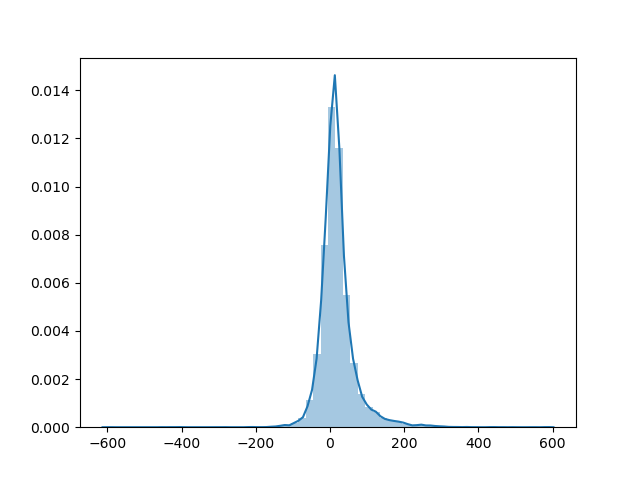
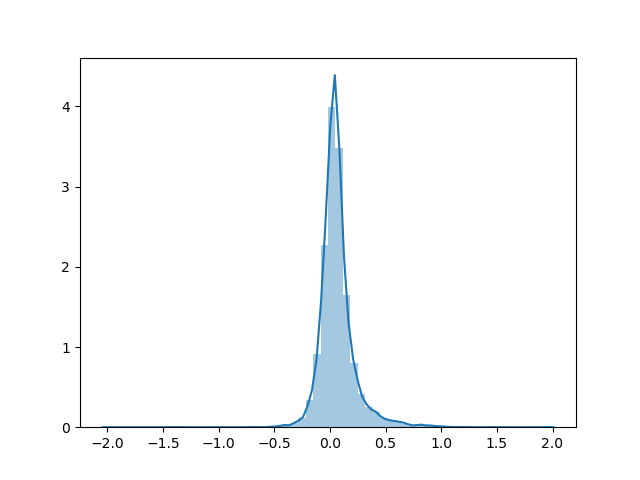
sasa feature added

diff --git a/dataloader.py b/dataloader.py
@@ -159,10 +159,14 @@ def read_pocket(mol_path, profile_path, pop_path, hydrophobicity, binding_probab
         atoms['distance_to_center'] = center_distances
     
     siteresidue_list = atoms['subst_name'].tolist()
-    #qsasa_data = extract_sasa_data(siteresidue_list, pop_path)
-    #atoms['sasa'] = qsasa_data
-    seq_entropy_data = extract_seq_entropy_data(siteresidue_list, profile_path) # sequence entropy data with subst_name as keys
-    atoms['sequence_entropy'] = atoms['subst_name'].apply(lambda x: seq_entropy_data[x])
+    
+    if 'sasa' in features_to_use:
+        qsasa_data = extract_sasa_data(siteresidue_list, pop_path)
+        atoms['sasa'] = qsasa_data
+    
+    if 'sequence_entropy' in features_to_use:
+        seq_entropy_data = extract_seq_entropy_data(siteresidue_list, profile_path) # sequence entropy data with subst_name as keys
+        atoms['sequence_entropy'] = atoms['subst_name'].apply(lambda x: seq_entropy_data[x])
     
     if atoms.isnull().values.any():
         print('invalid input data (containing nan):')
@@ -384,7 +388,7 @@ def divide_and_gen_pairs(cluster_file_dir, subcluster_dict, num_classes, cluster
         th: threshold of maximum number of pockets in one class.
     """
     # read the original clustered pockets
-    clusters = read_cluster_file(cluster_file_dir)
+    clusters = read_cluster_file_from_yaml(cluster_file_dir)
 
     # select clusters according to rank of sizes and sample large clusters
     clusters = select_classes(clusters, num_classes, cluster_th)
@@ -411,8 +415,7 @@ def divide_and_gen_pairs(cluster_file_dir, subcluster_dict, num_classes, cluster
 
 
 def read_cluster_file(cluster_file_dir):
-    """
-    Read the clustered pockets as a list of lists.
+    """Read the clustered pockets as a list of lists.
     """
     f = open(cluster_file_dir, 'r')
     data_text = f.read()
@@ -432,6 +435,14 @@ def read_cluster_file(cluster_file_dir):
 
     return clusters
     #return clusters[1:] # !!!!!! testing performance without first large cluster.
+
+
+def read_cluster_file_from_yaml(cluster_file_dir):
+    """Read the clustered pockets as a list of lists.
+    """
+    with open(cluster_file_dir) as file:
+        clusters = yaml.full_load(file)    
+    return clusters
 
 
 def select_classes(clusters, num_classes, th):

diff --git a/visualize_embeddings.py b/visualize_embeddings.py
@@ -6,7 +6,7 @@ import argparse
 import os
 import torch
 import numpy as np
-from dataloader import read_cluster_file, select_classes, divide_clusters, pocket_loader_gen, cluster_by_chem_react
+from dataloader import read_cluster_file_from_yaml, select_classes, divide_clusters, pocket_loader_gen, cluster_by_chem_react
 from compute_acc import compute_embeddings
 from model import SiameseNet
 import yaml
@@ -26,7 +26,7 @@ def get_args():
                         help='text file to get the cluster labels')                        
 
     parser.add_argument('-cluster_file_dir',
-                        default='../data/googlenet-classes',
+                        default='../data/clusters_after_remove_files_with_no_popsa.yaml',
                         required=False,
                         help='text file to get the cluster labels')
 
@@ -73,7 +73,7 @@ def gen_embedding(cluster_file_dir, pocket_dir, pop_dir, trained_model_dir, subc
     normalize = True
     
     # read the original clustered pockets
-    clusters = read_cluster_file(cluster_file_dir)
+    clusters = read_cluster_file_from_yaml(cluster_file_dir)
 
     # select clusters according to rank of sizes and sample large clusters
     clusters = select_classes(clusters, num_classes, cluster_th)
@@ -194,7 +194,7 @@ if __name__=="__main__":
         labels = labels.astype(int)
     
         # read the original clustered pockets
-        clusters = read_cluster_file(cluster_file_dir)
+        clusters = read_cluster_file_from_yaml(cluster_file_dir)
     
         # select clusters according to rank of sizes and sample large clusters
         clusters = select_classes(clusters, num_classes, cluster_th)

diff --git a/find_missing_popsa.py b/find_missing_popsa.py
@@ -1,0 +1,45 @@
+"""
+Find the missing popsa files. Then we manually remove them from train/val/test.
+"""
+from dataloader import read_cluster_file
+from os import listdir
+from os.path import isfile, join
+import yaml
+
+
+def protein_list_by_popsa(pop_dir):
+    """returns a list of protein codes in the popsa folder
+    """
+    protein_list = [f for f in listdir(pop_dir) if isfile(join(pop_dir, f))]
+    protein_list = [x[0:-5] for x in protein_list]
+    return protein_list
+
+if __name__=="__main__":
+    cluster_file_dir = '../data/googlenet-classes'
+    pop_dir = '../data/pops-googlenet/'    
+    output_file = '../data/clusters_after_remove_files_with_no_popsa.yaml'
+
+    clusters = read_cluster_file(cluster_file_dir)
+
+    protein_list = protein_list_by_popsa(pop_dir)
+
+    num_pockets = sum([len(x) for x in clusters])
+    print('number of pockets in original clusters: ', num_pockets)
+
+    for cluster in clusters:
+        for pocket in cluster:
+            if pocket[0:-2] not in protein_list:
+                cluster.remove(pocket)
+                print('can not find popsa file for {}'.format(pocket))
+
+    num_pockets = sum([len(x) for x in clusters])
+    print('number of pockets after removing: ', num_pockets)
+
+    print('saving new clusters to {}...'.format(output_file))
+    with open(output_file, 'w') as file:
+        documents = yaml.dump(clusters, file)
+
+    with open(output_file) as file:
+        loaded_clusters = yaml.full_load(file)   
+    print(loaded_clusters)
+

diff --git a/node_feature_distribution.py b/node_feature_distribution.py
@@ -4,14 +4,14 @@ Compute the mean and std of each feature of the entire dataset.
 import random
 import os
 import numpy as np
-from dataloader import read_cluster_file, select_classes, pocket_loader_gen
+from dataloader import read_cluster_file_from_yaml, select_classes, pocket_loader_gen
 import seaborn as sns
 import matplotlib.pyplot as plt
 
 
 if __name__ == "__main__":
     random.seed(666) # deterministic sampled pockets and pairs from dataset
-    cluster_file_dir = '../data/googlenet-classes'
+    cluster_file_dir = '../data/clusters_after_remove_files_with_no_popsa.yaml'
     pocket_dir = '../data/googlenet-dataset/'
     pop_dir = '../data/pops-googlenet/'
 
@@ -22,9 +22,9 @@ if __name__ == "__main__":
     num_classes = 60
     cluster_th = 10000 # threshold of number of pockets in a class
 
-    clusters = read_cluster_file(cluster_file_dir)
+    clusters = read_cluster_file_from_yaml(cluster_file_dir)
     clusters = select_classes(clusters, num_classes, cluster_th)
-    features_to_use = ['x', 'y', 'z', 'charge', 'hydrophobicity', 'binding_probability', 'distance_to_center', 'sequence_entropy'] 
+    features_to_use = ['x', 'y', 'z', 'charge', 'hydrophobicity', 'binding_probability', 'distance_to_center', 'sasa', 'sequence_entropy'] 
     #features_to_use = ['charge', 'hydrophobicity', 'binding_probability', 'distance_to_center', 'sequence_entropy'] 
     
     # all pockets are here

diff --git a/compute_acc.py b/compute_acc.py
@@ -9,7 +9,7 @@ import argparse
 import os
 import torch
 import numpy as np
-from dataloader import read_cluster_file, select_classes, divide_clusters, pocket_loader_gen, cluster_by_chem_react
+from dataloader import read_cluster_file_from_yaml, select_classes, divide_clusters, pocket_loader_gen, cluster_by_chem_react
 from model import SiameseNet, ContrastiveLoss
 from scipy.spatial.distance import cdist
 import sklearn.metrics as metrics
@@ -20,7 +20,7 @@ def get_args():
     parser = argparse.ArgumentParser('python')
 
     parser.add_argument('-cluster_file_dir',
-                        default='../data/googlenet-classes',
+                        default='../data/clusters_after_remove_files_with_no_popsa.yaml',
                         required=False,
                         help='text file to get the cluster labels')
 
@@ -165,7 +165,7 @@ if __name__=="__main__":
     normalize = True
 
     # read the original clustered pockets
-    clusters = read_cluster_file(cluster_file_dir)
+    clusters = read_cluster_file_from_yaml(cluster_file_dir)
 
     # select clusters according to rank of sizes and sample large clusters
     clusters = select_classes(clusters, num_classes, cluster_th)

diff --git a/train_classifier.py b/train_classifier.py
@@ -6,7 +6,7 @@ import random
 import os
 import torch
 import torch.nn as nn
-from dataloader import read_cluster_file, select_classes, divide_clusters, pocket_loader_gen, cluster_by_chem_react
+from dataloader import read_cluster_file_from_yaml, select_classes, divide_clusters, pocket_loader_gen, cluster_by_chem_react
 from model import MoNet
 import numpy as np
 import sklearn.metrics as metrics
@@ -18,7 +18,7 @@ def get_args():
     parser = argparse.ArgumentParser('python')
 
     parser.add_argument('-cluster_file_dir',
-                        default='../data/googlenet-classes',
+                        default='../data/clusters_after_remove_files_with_no_popsa.yaml',
                         required=False,
                         help='text file to get the cluster labels')
 
@@ -195,7 +195,7 @@ if __name__=="__main__":
     print('number of gpus: ', num_gpu)
 
     # read the original clustered pockets
-    clusters = read_cluster_file(cluster_file_dir)
+    clusters = read_cluster_file_from_yaml(cluster_file_dir)
 
     # select clusters according to rank of sizes and sample large clusters
     clusters = select_classes(clusters, num_classes, cluster_th)

diff --git a/train.py b/train.py
@@ -15,7 +15,7 @@ def get_args():
     parser = argparse.ArgumentParser('python')
 
     parser.add_argument('-cluster_file_dir',
-                        default='../data/googlenet-classes',
+                        default='../data/clusters_after_remove_files_with_no_popsa.yaml',
                         required=False,
                         help='text file to get the cluster labels')
 
@@ -156,7 +156,7 @@ if __name__=="__main__":
     # missing popsa files for sasa feature at this moment
     #features_to_use = ['charge', 'hydrophobicity', 'binding_probability', 'distance_to_center', 'sasa', 'sequence_entropy'] 
     #features_to_use = ['charge', 'hydrophobicity', 'binding_probability', 'distance_to_center', 'sequence_entropy'] 
-    features_to_use = ['x', 'y', 'z', 'charge', 'hydrophobicity', 'binding_probability', 'sequence_entropy'] 
+    features_to_use = ['x', 'y', 'z', 'charge', 'hydrophobicity', 'binding_probability', 'sasa', 'sequence_entropy'] 
     print('features to use: ', features_to_use)
 
     # read the original clustered pockets
